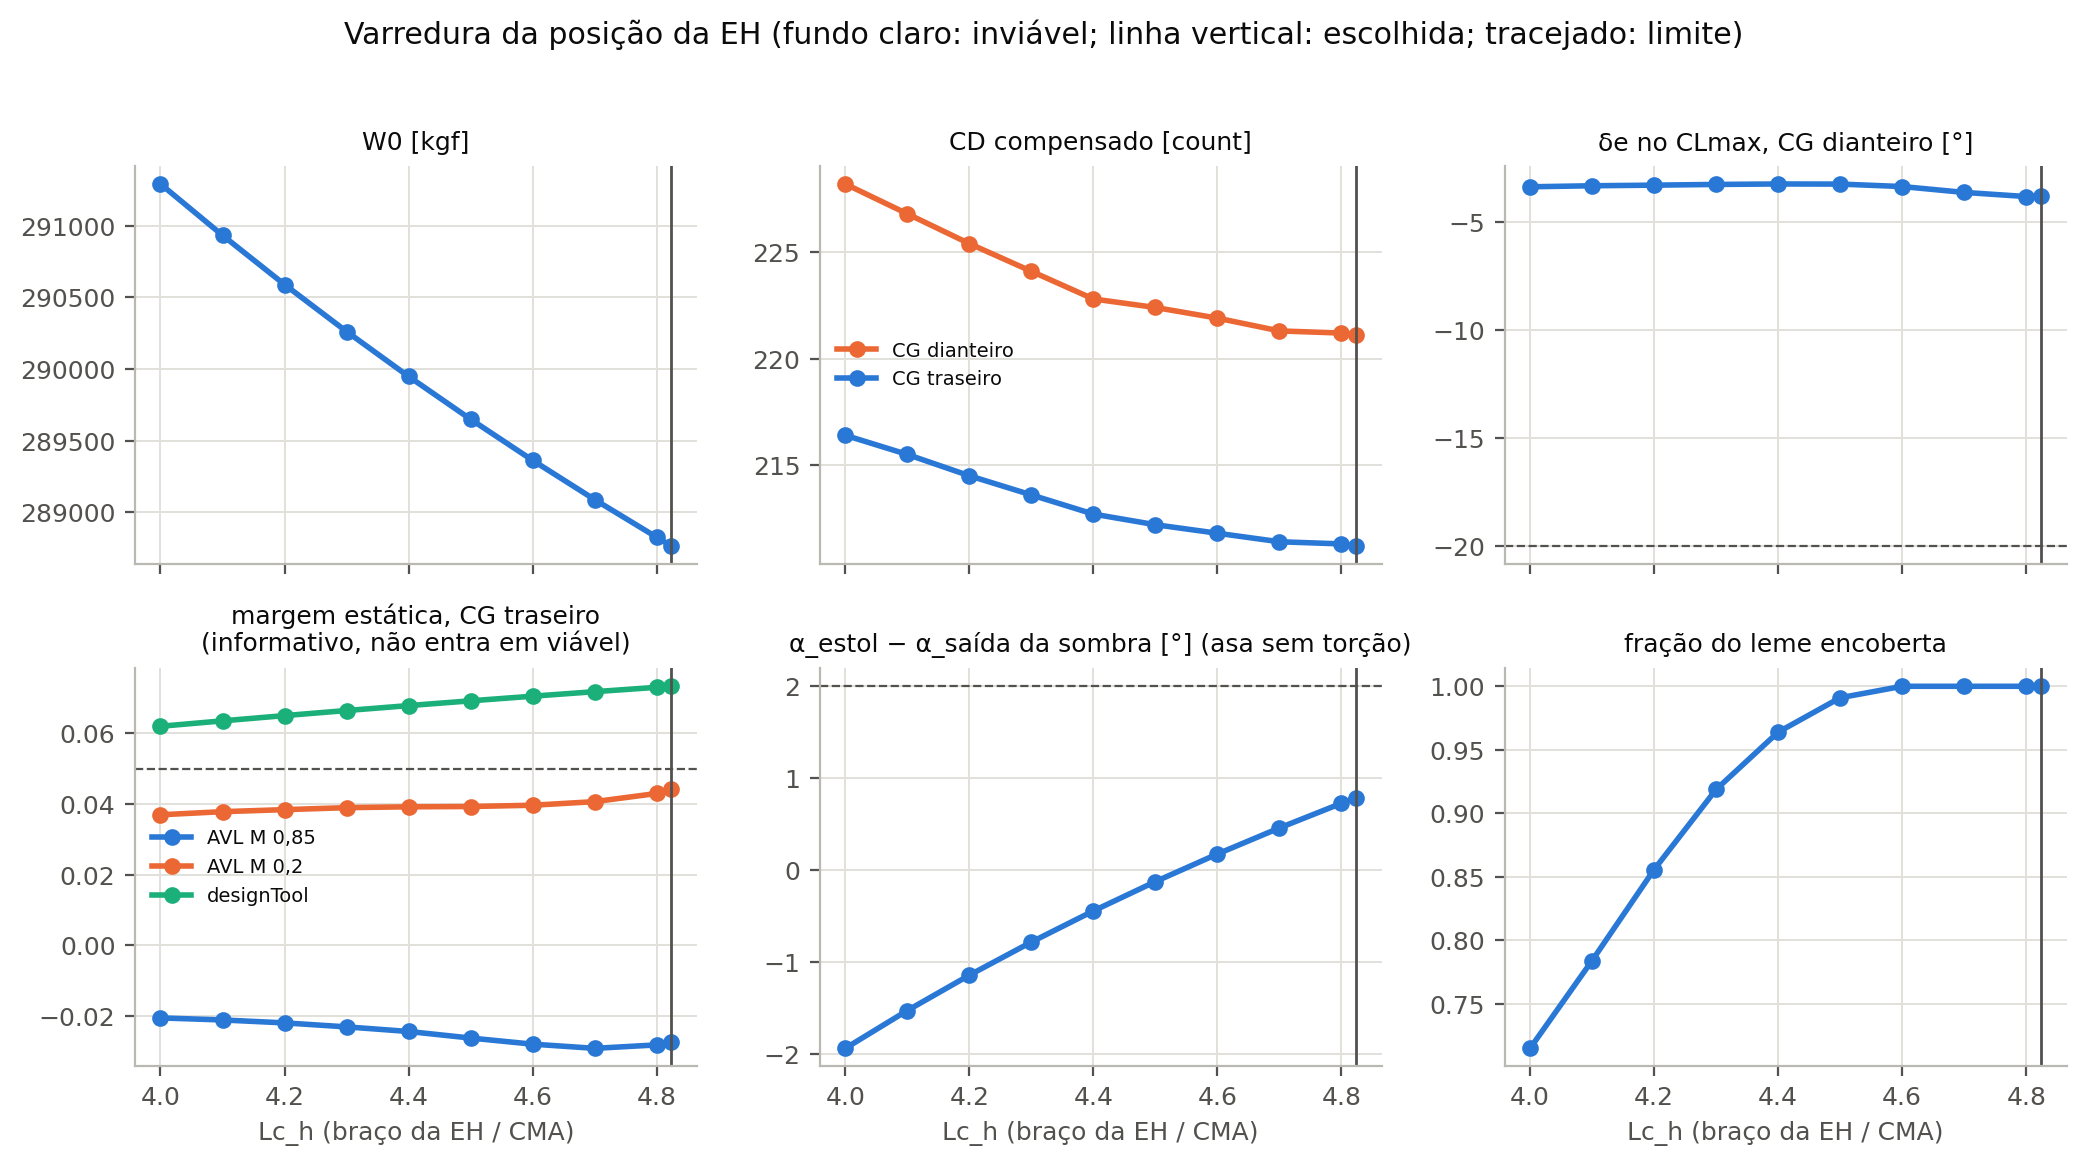
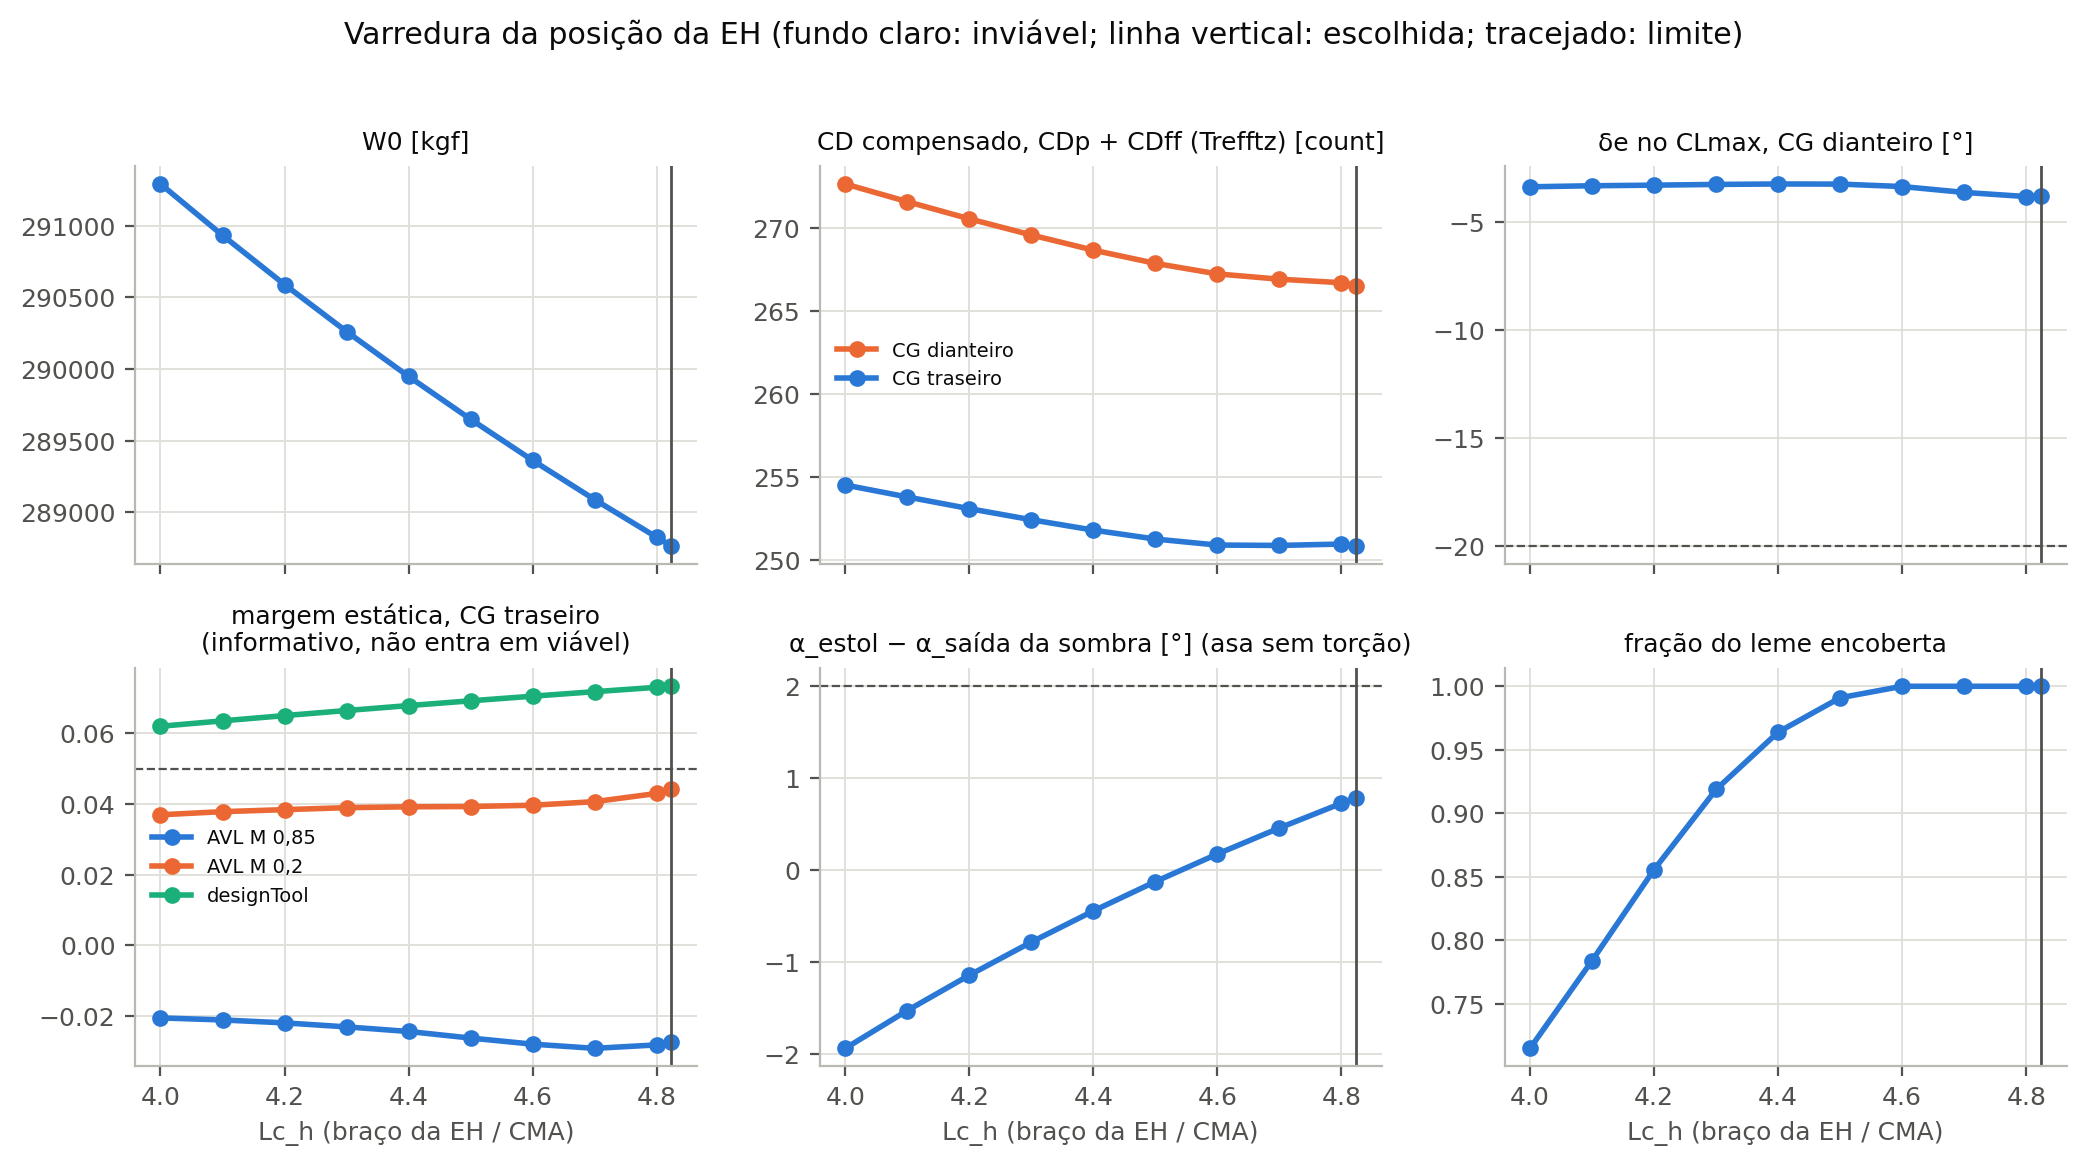
Lab 04: varredura da EH com o arrasto de Trefftz, mesma definicao do resto
CD = CDp + CDff; o CDtot de campo proximo fica em CDnf_* so como
referencia. Com CG traseiro o CD forma patamar a partir de Lc_h 4,6
(variacoes abaixo do ruido de malha); com CG dianteiro e o W0 continua
caindo. A escolha (4,8237) nao muda.

Changed region(s): [[0.3428, 0.1544, 0.6544, 0.3087], [0.3739, 0.3705, 0.6544, 0.494], [0.4362, 0.0926, 0.6232, 0.1544]]

diff --git a/avl/varredura_eh.py b/avl/varredura_eh.py
@@ -70,7 +70,10 @@ def ponto(lc):
         it, c = it_para_de_zero(arq, av['M'], av['CL'])
         e = estol(arq, it=it, trim=True, av=av)
         xcg = av[f'xcg_{cg}']
-        r.update({f'it_{cg}': it, f'CD_{cg}': 1e4*c['CD'], f'CDff_{cg}': 1e4*c['CDff'],
+        # CD = CDp + CDff (Trefftz), a mesma definicao do resto do Lab 04; o
+        # CDtot de campo proximo fica so como referencia (CDnf_*)
+        r.update({f'it_{cg}': it, f'CD_{cg}': 1e4*(av['CD0'] + c['CDff']),
+                  f'CDnf_{cg}': 1e4*c['CD'], f'CDff_{cg}': 1e4*c['CDff'],
                   f'e_{cg}': c['e'], f'MS_{cg}': (c['xnp'] - xcg)/av['Cref'],
                   f'alfa_estol_{cg}': e['alfa'], f'CLmax_{cg}': e['CL'],
                   f'de_estol_{cg}': e['de'], f'eta_estol_{cg}': e['eta_crit']})
@@ -100,7 +103,7 @@ def figura(linhas, escolhido):
     lc = np.array([l['Lc_h'] for l in linhas])
     paineis = [
         ('W0 [kgf]', [('W0_kgf', AZUL, None)], None),
-        ('CD compensado [count]', [('CD_fwd', LARANJA, 'CG dianteiro'),
+        ('CD compensado, CDp + CDff (Trefftz) [count]', [('CD_fwd', LARANJA, 'CG dianteiro'),
                                    ('CD_aft', AZUL, 'CG traseiro')], None),
         ('δe no CLmax, CG dianteiro [°]', [('de_estol_fwd', AZUL, None)], -DE_MAX),
         ('margem estática, CG traseiro\n(informativo, não entra em viável)',
